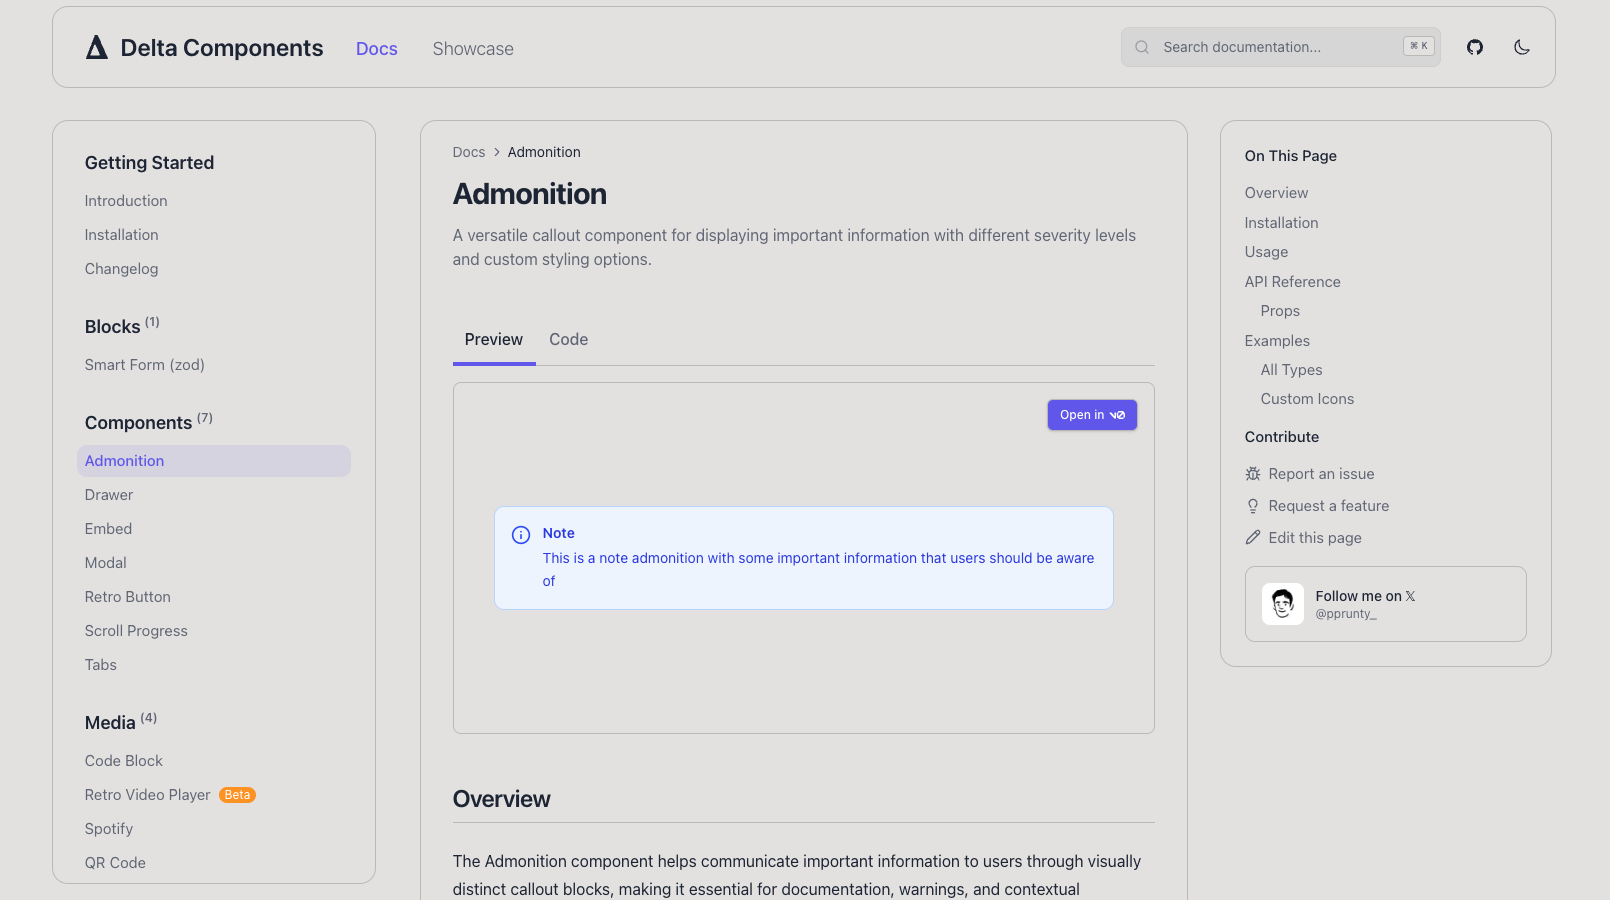
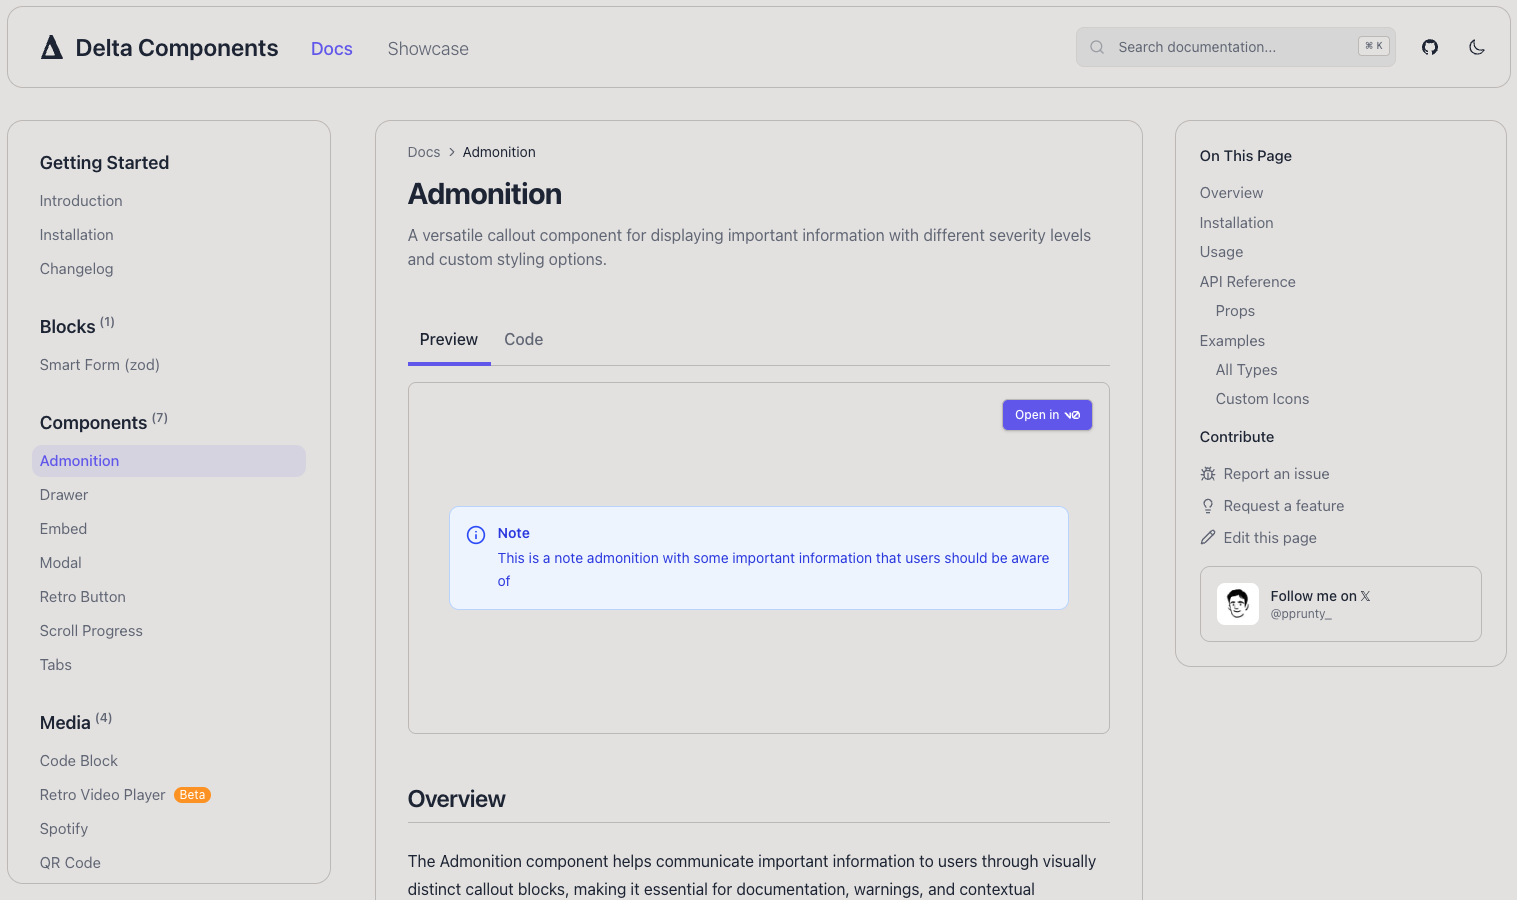
feat: improve layout spacing and command menu responsiveness
- Fix consistent 16px gaps between header, aside, main content, and TOC
- Align command menu breakpoint with hamburger visibility (lg breakpoint)
- Increase command menu text size on desktop for better readability
- Make README dashboard image clickable to deltacomponents.dev
- Optimize spacing between all layout elements for professional appearance

🤖 Generated with [Claude Code](https://claude.ai/code)

diff --git a/components/command-menu.tsx b/components/command-menu.tsx
@@ -65,7 +65,7 @@ export function CommandMenu() {
       <div className="sr-only">Type a command or search</div>
       <CommandInput
         placeholder="Type a command or search..."
-        className="rounded-t-2xl text-sm md:text-sm sm:text-md"
+        className="rounded-t-2xl text-sm lg:text-base"
         autoFocus
       />
       <CommandList className="flex-1 rounded-b-2xl pb-12">
@@ -134,13 +134,13 @@ export function CommandMenu() {
       <Button
         variant="outline"
         className={cn(
-          "relative h-8 md:h-10 w-full justify-start rounded-[0.5rem] bg-muted text-sm font-normal text-muted-foreground shadow-none sm:pr-12 md:w-48 lg:w-64 xl:w-80"
+          "relative h-8 md:h-10 w-full justify-start rounded-[0.5rem] bg-muted text-sm lg:text-base font-normal text-muted-foreground shadow-none sm:pr-12 lg:w-64 xl:w-80"
         )}
         onClick={() => setOpen(true)}
       >
         <SearchIcon className="ml-[-4px] mr-1.5 size-5 shrink-0 opacity-50" />
-        <span className="hidden lg:inline-flex">Search documentation...</span>
-        <span className="inline-flex lg:hidden">Search...</span>
+        <span className="hidden lg:inline-flex text-sm lg:text-base">Search documentation...</span>
+        <span className="inline-flex lg:hidden text-sm">Search...</span>
         <kbd className="pointer-events-none absolute right-[0.3rem] top-[0.3rem] md:top-[0.5rem] hidden h-5 select-none items-center gap-1 rounded border bg-background px-1.5 font-mono text-[10px] font-medium opacity-100 sm:flex">
           <span className="text-xs">⌘</span>K
         </kbd>

diff --git a/app/(app)/docs/layout.tsx b/app/(app)/docs/layout.tsx
@@ -15,8 +15,8 @@ export default function DocsLayout({ children }: DocsLayoutProps) {
     <div className="relative w-full">
       <SiteHeader />
       <div className="">
-        <div className="items-start lg:grid lg:grid-cols-[340px_minmax(0,1fr)] justify-center">
-          <aside className="sticky top-2 pb-5 z-30 hidden h-[calc(100vh-6rem)] w-full shrink-0 lg:block pl-4 pt-6">
+        <div className="items-start lg:grid lg:grid-cols-[340px_minmax(0,1fr)] lg:gap-4 justify-center">
+          <aside className="sticky top-4 pb-5 z-30 hidden h-[calc(100vh-6rem)] w-full shrink-0 lg:block pl-4 pt-6">
             <div className="rounded-2xl bg-background h-full border-border border">
               <ScrollArea className="h-full">
                 <DocsNav config={docsConfig} />
@@ -24,7 +24,7 @@ export default function DocsLayout({ children }: DocsLayoutProps) {
             </div>
           </aside>
 
-          <div className="p-2 p-6 lg:px-5 mt-16 lg:p-6 lg:mt-0">{children}</div>
+          <div className="p-2 p-6 lg:py-6 lg:px-0 mt-16 lg:mt-0">{children}</div>
         </div>
       </div>
       <SiteFooter />

diff --git a/app/(app)/docs/[[...slug]]/page.tsx b/app/(app)/docs/[[...slug]]/page.tsx
@@ -113,7 +113,7 @@ export default async function DocPage(props: {
 
   return (
     <>
-      <main className="xl:grid xl:grid-cols-[minmax(0,1fr)_340px] justify-center w-full">
+      <main className="xl:grid xl:grid-cols-[minmax(0,1fr)_340px] xl:gap-4 justify-center w-full">
         <div className="mx-auto w-full min-w-0 max-w-3xl md:rounded-2xl md:bg-background md:border-border md:border md:p-6 md:px-8">
           <div className="mb-4 flex items-center space-x-1 text-sm leading-none text-muted-foreground">
             <div className="truncate">Docs</div>
@@ -184,7 +184,7 @@ export default async function DocPage(props: {
             <DocsPagination />
           </Suspense>
         </div>
-        <div className="hidden text-sm xl:block pl-2">
+        <div className="hidden text-sm xl:block pr-4">
           <div className="sticky top-4">
             <div className="rounded-2xl bg-background border-border border">
               <ScrollArea className="max-h-[calc(100vh-8rem)]">

diff --git a/components/site-header.tsx b/components/site-header.tsx
@@ -15,13 +15,13 @@ import ThemeSwitcher from "@/components/theme-switcher"
 
 export function SiteHeader() {
   return (
-    <div className="p-2 md:p-2 md:px-4">
+    <div className="px-4 pt-4 pb-2 md:px-4 md:pt-6 md:pb-2">
       <header className="fixed top-0 left-0 right-0 z-50 bg-background/95 backdrop-blur-md supports-[backdrop-filter]:bg-background/90 border-b border-border md:static md:rounded-2xl md:bg-background md:border md:backdrop-blur-none">
         <div className="flex h-14 md:h-20 items-center px-4 md:px-4">
           <MainNav />
           <MobileNav />
           <div className="flex flex-1 items-center justify-between space-x-2 md:space-x-4 md:justify-end">
-            <div className="w-full flex-1 md:w-auto md:flex-none">
+            <div className="w-full flex-1 lg:w-auto lg:flex-none">
               <CommandMenu />
             </div>
             <nav className="flex items-center space-x-2 md:space-x-3">

diff --git a/components/site-footer.tsx b/components/site-footer.tsx
@@ -2,9 +2,9 @@ import { siteConfig } from "@/config/site"
 
 export function SiteFooter() {
   return (
-    <div className="py-12 px-4 md:py-4">
+    <div className="py-12 px-4 md:py-4 md:px-4">
       <footer className="md:border-t border-border h-14 md:h-20 md:rounded-2xl md:bg-background md:border md:px-4 flex items-center justify-center md:justify-start">
-        <div className="text-balance text-center text-base leading-loose text-muted-foreground md:text-left">
+        <div className="text-balance text-center text-sm md:text-base leading-loose text-muted-foreground md:text-left">
           💙 Built by{" "}
           <a
             href="https://patrickprunty.com"

diff --git a/components/mobile-nav.tsx b/components/mobile-nav.tsx
@@ -37,7 +37,7 @@ export function MobileNav() {
       <DrawerTrigger asChild>
         <Button
           variant="ghost"
-          className="mr-2 size-8 px-0 text-base hover:bg-transparent focus-visible:bg-transparent focus-visible:ring-0 focus-visible:ring-offset-0 md:hidden"
+          className="mr-2 size-8 px-0 text-base hover:bg-transparent focus-visible:bg-transparent focus-visible:ring-0 focus-visible:ring-offset-0 lg:hidden"
         >
           <div className="mx-1">
             <Hamburger

diff --git a/components/main-nav.tsx b/components/main-nav.tsx
@@ -9,7 +9,7 @@ export function MainNav() {
   const pathname = usePathname()
 
   return (
-    <div className="mr-4 md:px-4 hidden md:flex items-end">
+    <div className="mr-4 md:px-4 hidden lg:flex items-end">
       <Link href="/" className="mr-8 flex items-center gap-3">
         <svg
           className="size-6 fill-foreground dark:fill-foreground transition-colors"

diff --git a/README.md b/README.md
@@ -3,7 +3,7 @@
 A collection of modern, accessible, and customizable React components built on top of shadcn/ui with v0 integration.
 Delta Components is designed to make the difference in your user experience. Free and open source.
 
-![Dashboard](dashboard.png)
+[![Dashboard](dashboard.png)](https://deltacomponents.dev)
 
 <!-- <video width="640" height="360" controls>
   <source src="./trailer.mp4" type="video/mp4">
